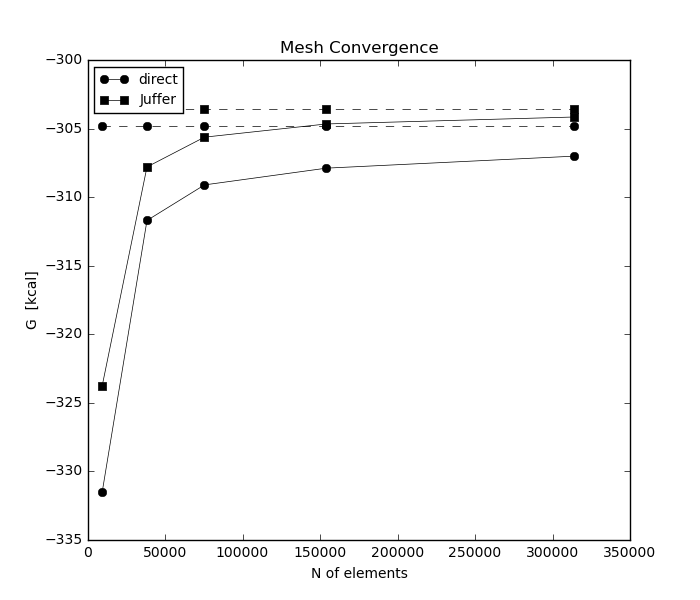
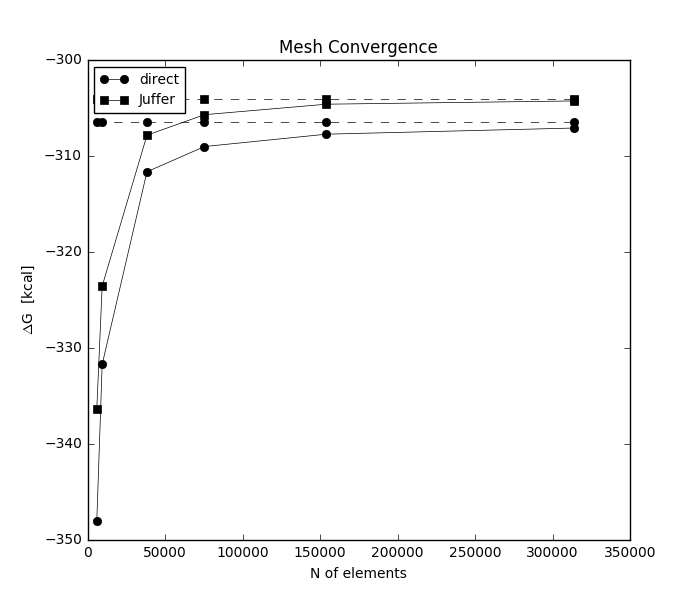
new plots cofig

diff --git a/main.py b/main.py
@@ -6,110 +6,105 @@ import PBL
 import gc
 
 mol_name = '5pti'
-dens = np.array([ .8, 1., 2., 2.8, 4., 5.7 ])
-red = np.array([ .1, .2, .4, .6, .8, 1.2, 1.5, 2., 3., 4. ])
+# dens = np.array([ .8, 1., 2., 2.8, 4., 5.7 ])
+# red = np.array([ .1, .2, .4, .6, .8, 1.2, 1.5, 2., 3., 4. ])
 
 
-for i in range(len(dens)):
-	PBL.solvation_energy(mol_name, dens[i], info=True)
-	PBL.solvation_energy(mol_name, dens[i], formulation='juffer', info=True)
-	gc.collect()
+# for i in range(len(dens)):
+# 	PBL.solvation_energy(mol_name, dens[i], info=True)
+# 	PBL.solvation_energy(mol_name, dens[i], formulation='juffer', info=True)
+# 	gc.collect()
 
-for i in range(len(red)):
-	PBL_stern.solvation_energy(mol_name, 4., stern_radius=red[i], info=True)
-	gc.collect()
-
-
-# directory = 'Molecule/{}/'.format(mol_name)
-# log_file = open(directory + mol_name + '_log', 'r').read().split('\n')
-# dicts = [eval(line) for line in log_file if len(line)!= 0]
-
-# n_boundary_elements = np.array([l['n_of_elements']
-# 								 for l in dicts if l['formulation']=='direct'])
-
-# times_d = np.array([[l['assemble_time'], l['solver_time'], l['total_time']]
-# 								 for l in dicts if l['formulation']=='direct'])
-# energy_d = np.array([l['energy'] for l in dicts if l['formulation']=='direct'])
+# for i in range(len(red)):
+# 	PBL_stern.solvation_energy(mol_name, 4., stern_radius=red[i], info=True)
+# 	gc.collect()
 
 
-# times_j = np.array([[l['assemble_time'], l['solver_time'], l['total_time']]
-# 								 for l in dicts if l['formulation']=='juffer'])
-# energy_j = np.array([l['energy'] for l in dicts if l['formulation']=='juffer'])
+directory = 'Molecule/{}/'.format(mol_name)
+log_file = open(directory + mol_name + '_log', 'r').read().split('\n')
+dicts = [eval(line) for line in log_file if len(line)!= 0]
+
+n_boundary_elements = np.array([l['n_of_elements']
+								 for l in dicts if l['formulation']=='direct'])
+
+times_d = np.array([[l['assemble_time'], l['solver_time'], l['total_time']]
+								 for l in dicts if l['formulation']=='direct'])
+energy_d = np.array([l['energy'] for l in dicts if l['formulation']=='direct'])
 
 
-# times_s = np.array([[l['assemble_time'], l['solver_time'], l['total_time']]
-# 								 for l in dicts if l['formulation']=='stern_d'])
-# energy_s = np.array([l['energy'] for l in dicts if l['formulation']=='stern_d'])
-
-# print 'N of elements: ', n_boundary_elements
-# print 'Direct form energy: ', energy_d
-# print 'Juffer form energy: ', energy_j
-# print 'Stern form energy: ', energy_s
-
-# rich_energy_d, _, _ = gf.richardson_extrapolation(energy_d, n_boundary_elements)
-# rich_energy_j, _, _ = gf.richardson_extrapolation(energy_j, n_boundary_elements)
-# r_solution_d = rich_energy_d*np.ones(len(n_boundary_elements))
-# r_solution_j = rich_energy_j*np.ones(len(n_boundary_elements))
-
-# import matplotlib.pyplot as plt
-# plt.switch_backend('agg')
-
-# params = {'figure.figsize':  (7, 6),
-# 		  'axes.titlesize':  12,
-#           'axes.labelsize':  10,
-#           'xtick.labelsize': 10,
-#           'ytick.labelsize': 10,
-# 		  'legend.fontsize': 10,
-# 		  'lines.linewidth': .5,
-# 		  'legend.loc': 'upper left'}
-# plt.rcParams.update(params)
-
-# energy_rslt = plt.figure().add_subplot(111)
-# energy_rslt.plot(n_boundary_elements, energy_d, marker='o', label='direct', color='k')
-# energy_rslt.plot(n_boundary_elements, energy_j, marker='s', label='Juffer', color='k')
-
-# energy_rslt.plot(n_boundary_elements, r_solution_d, 'r--', marker='o', color='k')
-# energy_rslt.plot(n_boundary_elements, r_solution_j, 'r--', marker='s', color='k')
-
-# energy_rslt.set_title('Mesh Convergence')
-# energy_rslt.set_xlabel('N of elements')
-# energy_rslt.set_ylabel('G  [kcal]')
-# energy_rslt.legend()
-# plt.savefig(directory + 'Energy.png')
+times_j = np.array([[l['assemble_time'], l['solver_time'], l['total_time']]
+								 for l in dicts if l['formulation']=='juffer'])
+energy_j = np.array([l['energy'] for l in dicts if l['formulation']=='juffer'])
 
 
-# time_general = plt.figure().add_subplot(111)
-# time_general.plot(n_boundary_elements, times_d[:,0], 'r--', marker='o', label='direct assemble', color='k')
-# time_general.plot(n_boundary_elements, times_d[:,1], 'r:', marker='o',label='direct solver', color='k')
-# time_general.plot(n_boundary_elements, times_d[:,2], marker='o', label='direct total', color='k')
+n_boundary_elements_ex = np.array([l['n_of_elements_ex']
+								 for l in dicts if l['formulation']=='stern_d'])
 
-# time_general.plot(n_boundary_elements, times_j[:,0], 'r--', marker='s',label='juffer assemble', color='k')
-# time_general.plot(n_boundary_elements, times_j[:,1], 'r:', marker='s', label='juffer solver', color='k')
-# time_general.plot(n_boundary_elements, times_j[:,2], marker='s', label='juffer total', color='k')
+times_s = np.array([[l['assemble_time'], l['solver_time'], l['total_time']]
+								 for l in dicts if l['formulation']=='stern_d'])
+energy_s = np.array([l['energy'] for l in dicts if l['formulation']=='stern_d'])
 
-# time_general.set_title('Time Consuming')
-# time_general.set_xlabel('N of elements')
-# time_general.set_ylabel('Time [s]')
-# time_general.legend()
-# plt.savefig(directory + 'Time.png')
+radius_s = np.array([l['stern_radius'] for l in dicts if l['formulation']=='stern_d'])
+
+print 'N of elements: ', n_boundary_elements
+print 'Direct form energy: ', energy_d
+print 'Juffer form energy: ', energy_j
+print 'Stern form energy: ', energy_s
+print 'N of external elements:  ', n_boundary_elements_ex
+
+rich_energy_d, _, _ = gf.richardson_extrapolation(energy_d, n_boundary_elements)
+rich_energy_j, _, _ = gf.richardson_extrapolation(energy_j, n_boundary_elements)
+r_solution_d = rich_energy_d*np.ones(len(n_boundary_elements))
+r_solution_j = rich_energy_j*np.ones(len(n_boundary_elements))
+
+import matplotlib.pyplot as plt
+plt.switch_backend('agg')
+
+params = {'figure.figsize':  (7, 6),
+		  'axes.titlesize':  12,
+          'axes.labelsize':  10,
+          'xtick.labelsize': 10,
+          'ytick.labelsize': 10,
+		  'legend.fontsize': 10,
+		  'lines.linewidth': .5,
+		  'legend.loc': 'upper left'}
+plt.rcParams.update(params)
+
+energy_rslt = plt.figure().add_subplot(111)
+energy_rslt.plot(n_boundary_elements, energy_d, marker='o', label='direct', color='k')
+energy_rslt.plot(n_boundary_elements, energy_j, marker='s', label='Juffer', color='k')
+
+energy_rslt.plot(n_boundary_elements, r_solution_d, 'r--', marker='o', color='k')
+energy_rslt.plot(n_boundary_elements, r_solution_j, 'r--', marker='s', color='k')
+
+energy_rslt.set_title('Mesh Convergence')
+energy_rslt.set_xlabel('N of elements')
+energy_rslt.set_ylabel(r'$\Delta$G  [kcal]')
+energy_rslt.legend()
+plt.savefig(directory + 'Energy.png')
 
 
-# time_solving = plt.figure().add_subplot(111)
-# time_solving.plot(n_boundary_elements, times_d[:,1], label='direct')
-# time_solving.plot(n_boundary_elements, times_j[:,1], label='Juffer')
+time_general = plt.figure().add_subplot(111)
+time_general.plot(n_boundary_elements, times_d[:,0], 'r--', marker='o', label='direct assemble', color='k')
+time_general.plot(n_boundary_elements, times_d[:,1], 'r:', marker='o', label='direct solver', color='k')
+time_general.plot(n_boundary_elements, times_d[:,2], marker='o', label='direct total', color='k')
 
-# time_solving.set_title('Solver Time')
-# time_solving.set_xlabel('N of elements')
-# time_solving.set_ylabel('Time [s]')
-# time_solving.legend()
-# plt.savefig(directory + 'SolverTime.png')
+time_general.plot(n_boundary_elements, times_j[:,0], 'r--', marker='s', label='juffer assemble', color='k')
+time_general.plot(n_boundary_elements, times_j[:,1], 'r:', marker='s', label='juffer solver', color='k')
+time_general.plot(n_boundary_elements, times_j[:,2], marker='s', label='juffer total', color='k')
 
-# time_assemble = plt.figure().add_subplot(111)
-# time_assemble.plot(n_boundary_elements, times_d[:,0], label='direct')
-# time_assemble.plot(n_boundary_elements, times_j[:,0], label='Juffer')
+time_general.set_title('Time Consuming')
+time_general.set_xlabel('N of elements')
+time_general.set_ylabel('Time [s]')
+time_general.legend()
+plt.savefig(directory + 'Time.png')
 
-# time_assemble.set_title('Assemble Time')
-# time_assemble.set_xlabel('N of elements')
-# time_assemble.set_ylabel('Time [s]')
-# time_assemble.legend()
-# plt.savefig(directory + 'AseembleTime.png')
+
+stern_fig = plt.figure()
+stern_rad = stern_fig.add_subplot(111)
+stern_rad.plot(radius_s, energy_s, marker='o', color='k')
+
+stern_rad.set_xlabel('N of elements')
+stern_rad.set_ylabel(r'$\Delta$G  [kcal]')
+
+plt.savefig(directory + 'Stern.png')
